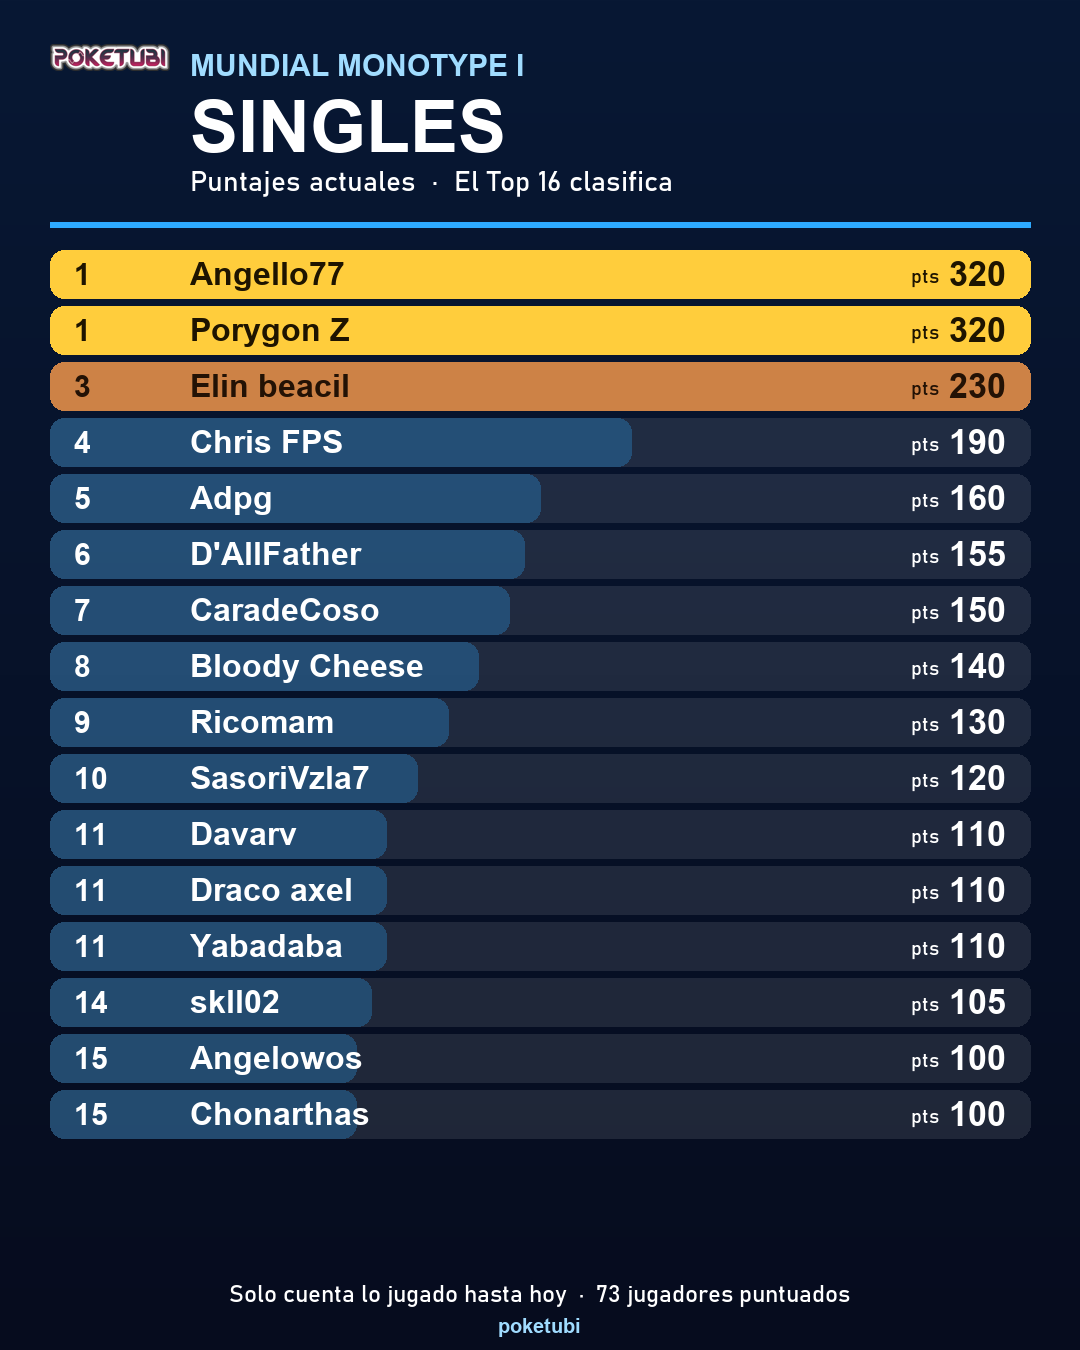
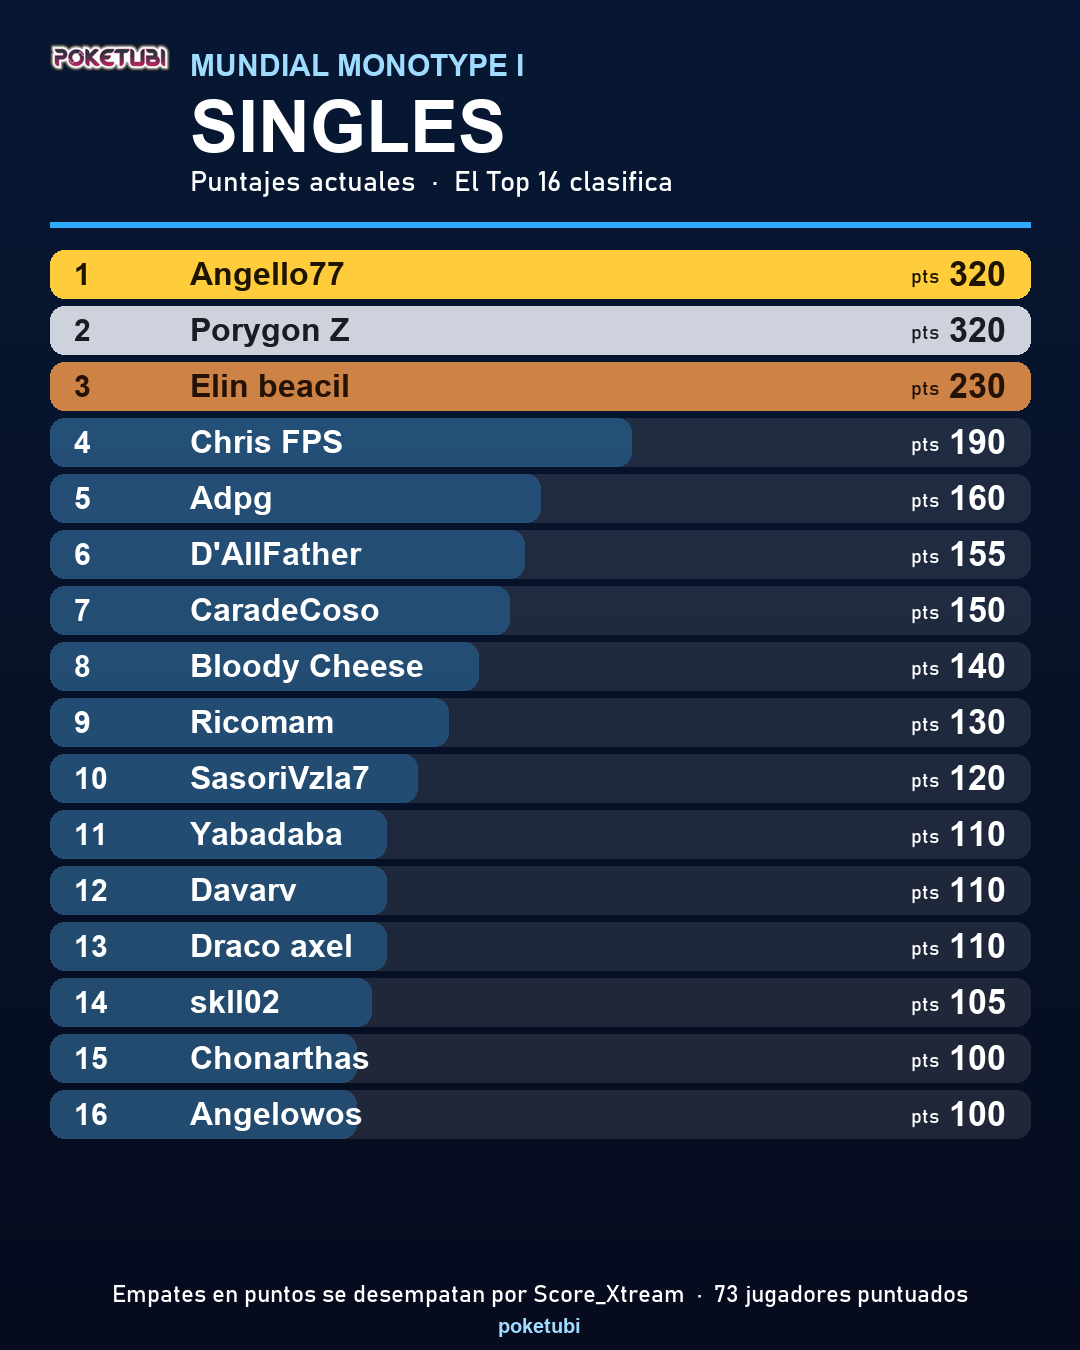
Rankings Monotype I: desempate por Score_Xtream, top 16 sin empates

diff --git a/generar_ranking_monotype_png.py b/generar_ranking_monotype_png.py
@@ -11,6 +11,7 @@ import sys
 import logging
 
 logging.disable(logging.CRITICAL)
+import pandas as pd
 from PIL import Image, ImageDraw, ImageFont
 
 from utils import load_data
@@ -43,18 +44,24 @@ def _gradiente(c1, c2):
     return img
 
 
+def _score_xtream():
+    """Score_Xtream por jugador (minusculas), usado solo para desempatar."""
+    try:
+        d = pd.read_csv("data/score_xtream.csv", sep=";", encoding="utf-8-sig")
+        return {str(j).strip().lower(): float(v) for j, v in zip(d["Jugador"], d["Score_Xtream"])}
+    except Exception:
+        return {}
+
+
 def _ranking(df_raw):
     rankings, _ = mi._calcular_puntos_por_formato(
         mi.MONOTYPE1_TIPOS, mi.MONOTYPE1_POSICIONES, mi.MONOTYPE1_LIGAS, df_raw, mi.MONOTYPE1_PENALIDADES)
+    sx = _score_xtream()
     out = {}
     for fmt, pts in rankings.items():
-        orden = sorted(pts.items(), key=lambda kv: (-kv[1], kv[0].lower()))
-        filas, rank_ant, pts_ant = [], 0, None
-        for i, (jug, p) in enumerate(orden, 1):
-            rank = rank_ant if p == pts_ant else i   # empates comparten posicion
-            filas.append((rank, jug, p))
-            rank_ant, pts_ant = rank, p
-        out[fmt] = filas
+        # mismos puntos -> gana el de mayor Score_Xtream (luego orden alfabetico); sin empates en la tabla
+        orden = sorted(pts.items(), key=lambda kv: (-kv[1], -sx.get(kv[0].strip().lower(), 0.0), kv[0].lower()))
+        out[fmt] = [(i, jug, p) for i, (jug, p) in enumerate(orden, 1)]
     return out
 
 
@@ -79,15 +86,10 @@ def dibujar(fmt, filas):
     d.text((190, 168), f"Puntajes actuales  ·  El Top {TOP_N} clasifica", font=_f(28), fill=(255, 255, 255, 200))
     d.rectangle([50, 222, ANCHO - 50, 227], fill=acento)
 
-    # top 16 = los primeros 16 jugadores; si el 17 empata en puntos con el 16, entran todos los empatados
     top = filas[:TOP_N]
-    corte_pts = top[-1][2] if len(top) == TOP_N else None
-    empate_corte = corte_pts is not None and len(filas) > TOP_N and filas[TOP_N][2] == corte_pts
-    if empate_corte:
-        top = [f for f in filas if f[2] >= corte_pts]
     max_pts = max(f[2] for f in filas) or 1
 
-    y0, alto_fila = 250, 56 if len(top) <= TOP_N else max(40, int(880 / len(top)))
+    y0, alto_fila = 250, 56
     for k, (rank, jug, pts) in enumerate(top):
         y = y0 + k * alto_fila
         if rank == 1:
@@ -102,18 +104,15 @@ def dibujar(fmt, filas):
         if rank > 3:   # barra de progreso proporcional al puntaje
             ancho_b = int((ANCHO - 100) * pts / max_pts)
             d.rounded_rectangle([50, y, 50 + max(ancho_b, 30), y + alto_fila - 8], radius=14, fill=acento + (70,))
-        marca = "=" if empate_corte and pts == corte_pts else ""
         cy = y + (alto_fila - 8) // 2
-        d.text((74, cy), f"{rank}{marca}", font=_f(30, True), fill=texto_c, anchor="lm")
+        d.text((74, cy), f"{rank}", font=_f(30, True), fill=texto_c, anchor="lm")
         nombre = _texto_ajustado(d, jug, _f(32, True), 640)
         d.text((190, cy), nombre, font=_f(32, True), fill=texto_c, anchor="lm")
         d.text((ANCHO - 74, cy), f"{pts}", font=_f(34, True), fill=texto_c, anchor="rm")
         d.text((ANCHO - 74 - d.textlength(str(pts), font=_f(34, True)) - 10, cy + 3), "pts",
                font=_f(20), fill=texto_c, anchor="rm")
 
-    pie = f"Solo cuenta lo jugado hasta hoy  ·  {len(filas)} jugadores puntuados"
-    if empate_corte:
-        pie = f"= empate en el puesto de corte ({corte_pts} pts)  ·  {len(filas)} jugadores puntuados"
+    pie = f"Empates en puntos se desempatan por Score_Xtream  ·  {len(filas)} jugadores puntuados"
     d.text((ANCHO // 2, ALTO - 56), pie, font=_f(24), fill=(255, 255, 255, 170), anchor="mm")
     d.text((ANCHO // 2, ALTO - 24), "poketubi", font=_f(20, True), fill=claro, anchor="mm")
     return img
